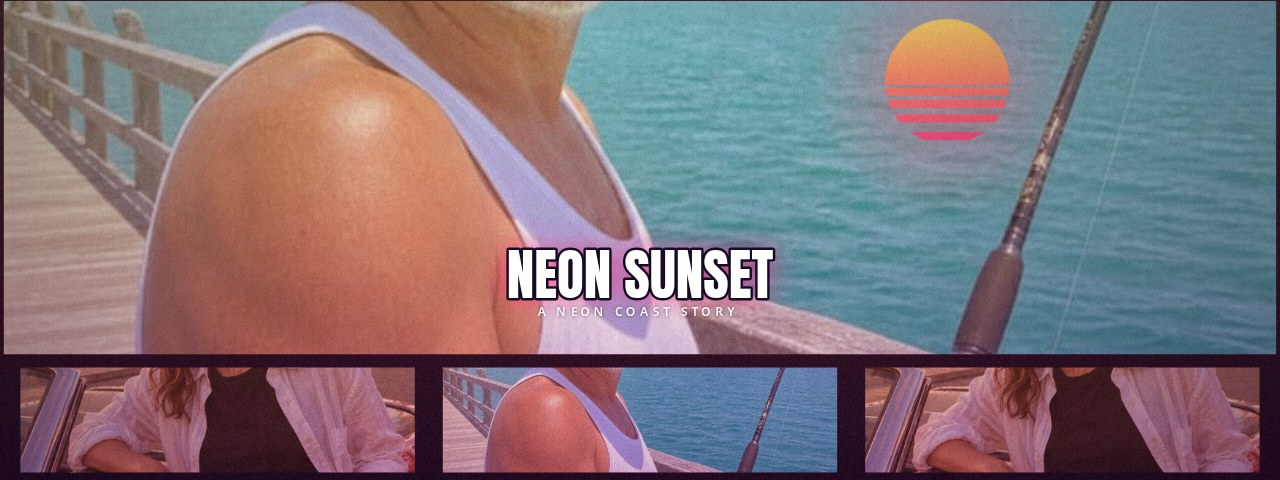
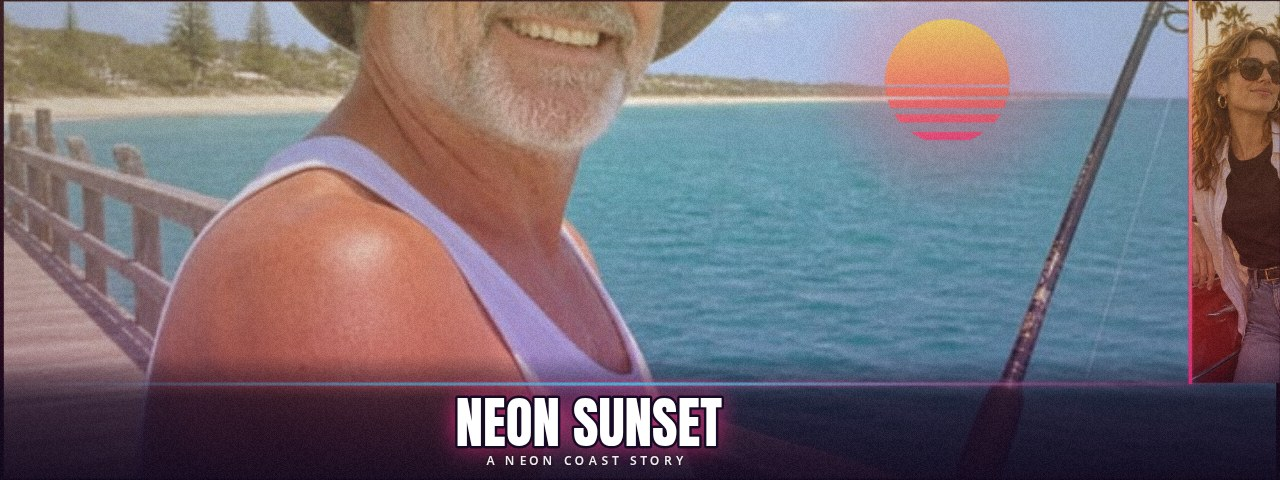
Re-shoot all four screenshots for v3 in-session
Shot 1 is the new Sunset Strip cover (full-bleed pier hero, sunset grade,
bold caption on the band, boulevard photo in the thin side strip), shot 2
the editor with a photo loaded, shot 3 a Neon Diptych cover, shot 4 the
export-size menu with the new outline-width control. The shot flow now
keeps the sample label honest and eases the Sunset Strip hero down so the
subject's face stays in frame on wide covers.

diff --git a/app/src/shots.js b/app/src/shots.js
@@ -29,6 +29,9 @@ export async function runShot(shot, query, api) {
   api.state.subtitle = subtitle;
   await api.loadSample(photo);
   applyPhotoToAll(api.state, photo);
+  // Keep the "Sample:" label honest about which photo the shot loaded.
+  const photoName = document.getElementById('photoName');
+  if (photoName) photoName.textContent = `Sample: ${photo}.jpg`;
   // A second sample in the side panels keeps multi-photo covers honest.
   const other = photo === 'pier' ? 'boulevard' : 'pier';
   await api.loadSample(other);
@@ -39,6 +42,12 @@ export async function runShot(shot, query, api) {
   // the strip is visibly a second frame rather than a sliver of the hero.
   if (layout === 'sunset-strip' && api.state.panels[1]) {
     api.state.panels[1].photo = other;
+  }
+  // On a wide cover frame the full-bleed hero crops hard top and bottom, so
+  // ease its photo down a touch: the subject's face stays in frame instead
+  // of being cut by the top edge.
+  if (layout === 'sunset-strip' && api.state.panels[0]) {
+    api.state.panels[0].panY = 0.15;
   }
   api.render();
   // A shot can ask for one control group in view (e.g. focus=export shows
